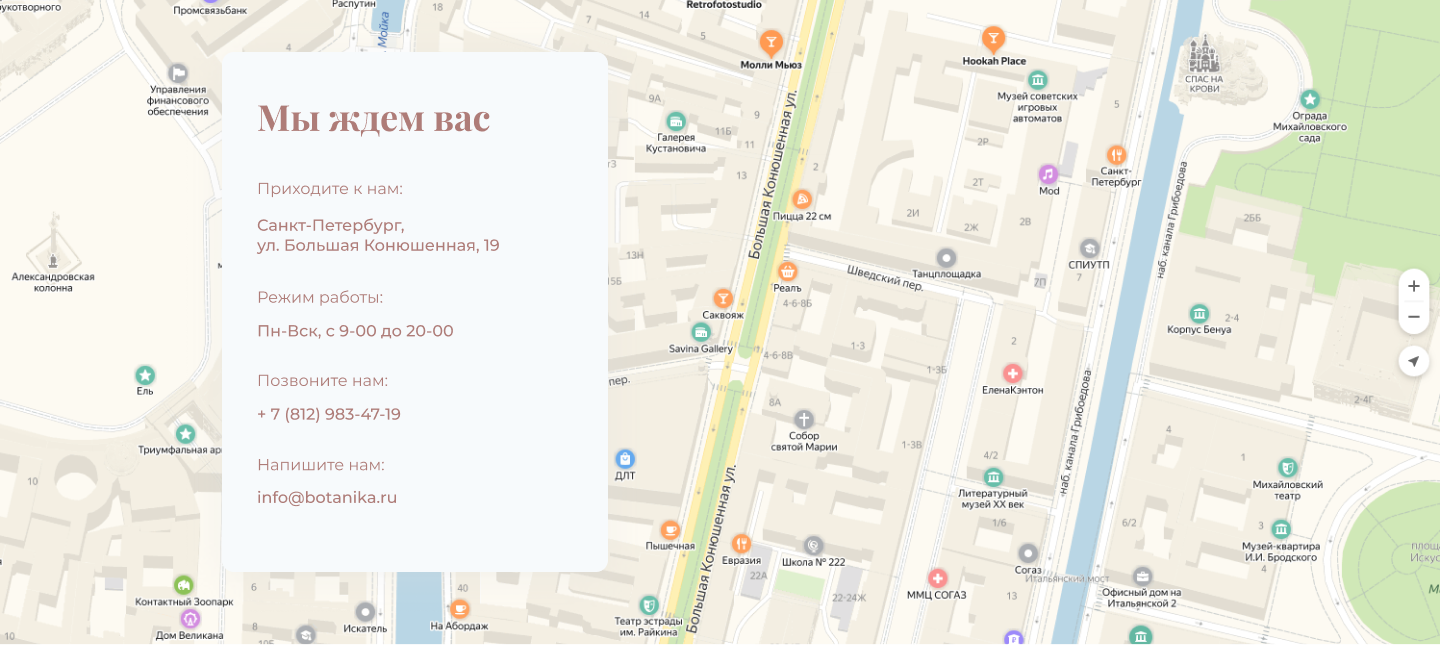
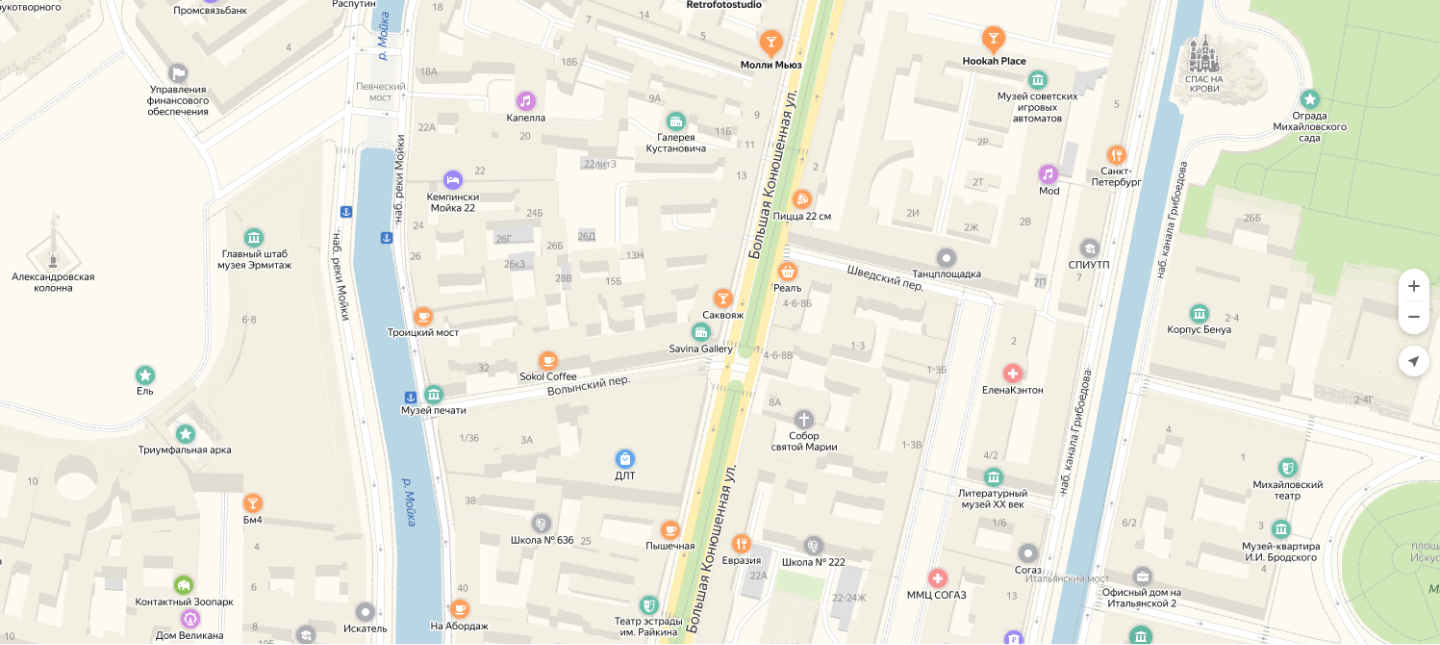
Last day 2021-08-19

Changed region(s): [[0.1562, 0.062, 0.4375, 0.8992]]

diff --git a/source/project-marathon2021/index.html b/source/project-marathon2021/index.html
@@ -2,15 +2,20 @@
 <html lang="ru">
   <head>
     <meta charset="UTF-8">
- <!----   
+ 
     <link rel="stylesheet" href="style.css">
+    <!--
     <link href="https://fonts.googleapis.com/css?family=Montserrat:400,500,700|Old+Standard+TT&display=swap&subset=cyrillic" rel="stylesheet">
- -->
-    <title>Портфолио Junior верстальщика</title>
+    -->
+
+    <link rel="preconnect" href="https://fonts.googleapis.com">
+    <link rel="preconnect" href="https://fonts.gstatic.com" crossorigin>
+    <link href="https://fonts.googleapis.com/css2?family=Montserrat:wght@400;500&family=Playfair+Display:ital,wght@0,400;0,700;1,400&display=swap&subset=cyrillic" rel="stylesheet">  
+    <title>Botanika | Авторские букеты в Петербурге</title>
   </head>
   <body>
     <header class="page-header">
-        <nav>
+        <nav class="top-menu">
             <ul>
                 <li>
                     <a href="#catalog">Каталог</a>
@@ -80,7 +85,7 @@
                     <p>Элегантный букет, который станет отличным 
                         подарком на день рождения или юбилей.</p>
                     <p>30 × 40 см</p>
-                    <p>3600 руб.</p>
+                    <h3>3600 руб.</h3>
                     <a class="button" href="">Заказать</a>
                 </figcaption>
                 <img src="files/top_bouquet.png" width="387" height="438"
@@ -191,20 +196,25 @@
             </blockquote>
         </section>
 
-        <section id="contacts">
-            <div>
-                <h2>Мы ждем вас</h2>
-                <h3>Приходите к нам:</h3>
-                <p>Санкт-Петербург, ул. Большая Конюшенная, 19</p>
-                <h3>Режим работы:</h3>
-                <p>Пн-Вск, с 9-00 до 20-00</p>
-                <h3>Позвоните нам:</h3>
-                <a href="tel:+78129834719">+7 (812) 983-47-19</a>
-                <h3>Напишите нам:</h3>
-                <a href="mailto:info@botanika.ru">info@botanika.ru</a>
-            </div>
-        </section>
     </main>
+
+    <section id="contacts" class="contacts">
+        <div class="contacts-text">
+            <h2>Мы ждем вас</h2>
+
+            <h3>Приходите к нам:</h3>
+            <p>Санкт-Петербург,<br>ул. Большая Конюшенная, 19</p>
+
+            <h3>Режим работы:</h3>
+            <p>Пн-Вск, с 9-00 до 20-00</p>
+
+            <h3>Позвоните нам:</h3>
+            <a href="tel:+78129834719">+7 (812) 983-47-19</a>
+
+            <h3>Напишите нам:</h3>
+            <a href="mailto:info@botanika.ru">info@botanika.ru</a>
+        </div>
+    </section>
 
     <footer class="page-footer">
         <nav>

diff --git a/source/project-marathon2021/style.css b/source/project-marathon2021/style.css
@@ -1,0 +1,100 @@
+body {
+    margin: 0;
+    font-family: 'Montserrat', sans-serif;
+    color: #AE7C78;
+}
+
+main {
+    min-width: 1200px;
+    max-width: 1200px;
+    margin: 0 auto;
+}
+
+h1{
+    font-family: 'Playfair Display', serif;
+    font-size: 44px;
+}
+
+h2{
+    font-family: 'Playfair Display', serif;
+    font-size: 36px;
+    font-weight: bold;
+}
+
+h3{
+    font-size: 24px;
+    font-weight: medium;
+}
+
+.promo {
+    padding: 0;
+    background-color: #AE7C78;
+    color: #FFFFFF;
+}
+
+.promo figure{
+    margin: 0;
+}
+
+.contacts {
+    height: 644px;
+    background-color: #F7FAFC;
+    background-image: url("files/map.png");
+    background-repeat: no-repeat;
+    background-position: top left;
+}
+
+.contacts-text {
+    margin: 50px auto auto 102px;
+    padding: 40px 108px 64px 35px;
+    color: #AE7C78;
+    background-color: #FF0000;
+    border-radius: 12px;
+    max-width: 386px;
+    width: 386px;
+
+}
+
+/*
+.contacts-text h3{
+    font-size: 16px;
+    font-weight: regular;
+}
+
+.contacts-text p{
+    font-size: 16px;
+    font-weight: medium;    
+}
+*/
+
+.page-header {
+    margin-top: 24px;
+    border-top: 1px solid #AE7C78;
+    border-bottom: 1px solid #AE7C78;
+    align-items: center;
+}
+
+.page-footer {
+    margin: 0 auto;
+    background-color: #AE7C78;
+    color: #FFFFFF;
+}
+
+.page-footer nav, .page-header nav {
+    min-width: 1200px;
+    max-width: 1200px;
+    margin: 0 auto;
+}
+
+
+nav.menu ul {
+    margin: 0;
+    margin-left: 130px;
+    padding: 0;
+    list-style: none;
+}
+  
+.menu li {
+    display: inline-block;
+    margin-right: 1em;
+}
